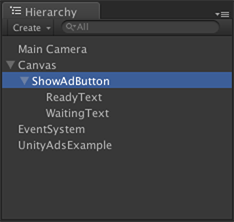
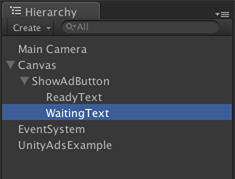
Update README.md

Changed region(s): [[0.0, 0.0279, 1.0, 0.6704], [0.0598, 0.7821, 0.4786, 0.838], [0.0598, 0.6983, 0.359, 0.7542]]

diff --git a/README.md b/README.md
@@ -121,7 +121,7 @@ public class UnityAdsExample extends MonoBehaviour
 }
 ```
 
-Now lets add the script to your scene. Create a new GameObject in your main scene and rename it to UnityAdsExample. Then add the UnityAdsExample script to it.
+Now let's add the script to your scene. Create a new GameObject in your main scene and rename it to UnityAdsExample. Then add the UnityAdsExample script to it.
 
 The UnityAdsHelper should only be initialized once within your game, ideally when your game first starts up. In any case, the UnityAdsHelper is capable of managing its own instances, and persists across scene loads. So there will only ever be one UnityAdsHelper at a time in your game, and Unity Ads will only be initialized once.
 
@@ -139,13 +139,13 @@ The UnityAdsHelper should only be initialized once within your game, ideally whe
 
 In this section, we'll create and configure a Unity UI Button for use with this example.
 
-**Step 1:** Start by creating a new Unity UI Button in your scene. Creating a new UI Button will also add a UI Canvas and EventSystem to your scene.
+**Step 1:** Start by creating a new Unity UI Button in your scene. Creating a new UI Button will also add a UI Canvas and EventSystem to your scene if they don't already exist.
 
 1. Select **GameObject > UI > Button** from the Unity Editor menu.
 1. Press the T key to switch to using the Rect Transform Tool.
-1. Select and drag the button to the center of the canvas.
+1. Select and drag the UI Button to the center of the Canvas.
 
-**Step 2:** Customize the button for use with this example.
+**Step 2:** Customize the UI Button for use with this example.
 
 1. Rename the new UI Button to _ShowAdButton_.
 1. Expand _ShowAdButton_ in the Hierarchy to view child objects.
@@ -155,7 +155,7 @@ In this section, we'll create and configure a Unity UI Button for use with this 
 
 ![Example Scene](images/example-scene.png)
 
-**Step 3:** Create non-interactable version of the UI Text GameObject.
+**Step 3:** Create a non-interactable version of the UI Text GameObject.
 
 1. Locate and select the GameObject named _ReadyText_.
 1. Select **Edit > Duplicate** to create a duplicate GameObject.
@@ -163,7 +163,8 @@ In this section, we'll create and configure a Unity UI Button for use with this 
 1. Enter "Waiting..." into the Text field of the the Text component.
 1. Disable the Text component of the GameObject for the time being.
 
-![Example Hierarchy](images/example-hierarchy.png)
+![Example Hierachy](images/example-hierarchy.png) 
+![Example ReadyText](images/example-waitingtext.png)
 
 **Step 4:** Configure the Canvas to scale with screen size.
 
